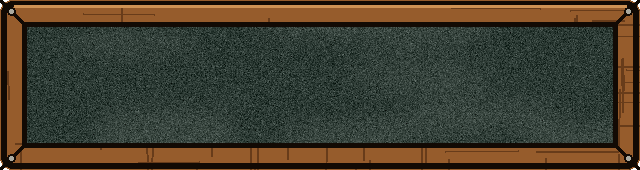
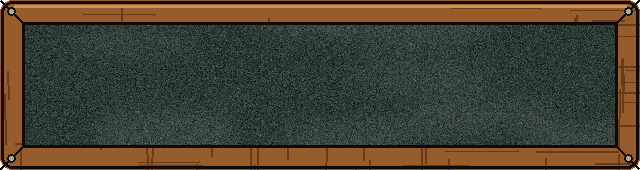
Brewery: chalk board beside its sign, second board below for what does not fit
Claude-Session: https://claude.ai/code/session_01DBvdhLwyoq4buUFjYxfbJv

Changed region(s): [[0.0, 0.0, 1.0, 1.0]]

diff --git a/tools/art/draw_chalk_board.py b/tools/art/draw_chalk_board.py
@@ -1,4 +1,5 @@
-"""THE BREWERY'S CHALK BOARD (24 Oct 2026, Anthony picked look B:
+"""THE BREWERY'S CHALK BOARD (24 Oct 2026, Anthony picked look B; ink edges
+thinned the same day, "so large and intense make it smaller":
 "B please ... but not on a wooden plank ... on a board").
 
 Draws, for free, the pieces of the stock bar at the top of the Brewery:
@@ -49,8 +50,8 @@ def board(w=640, h=170, frame=22):
     # mitred corners
     for (x0, y0, x1, y1) in [(0, 0, frame, frame), (w - 1, 0, w - 1 - frame, frame),
                              (0, h - 1, frame, h - 1 - frame), (w - 1, h - 1, w - 1 - frame, h - 1 - frame)]:
-        d.line([(x0, y0), (x1, y1)], fill=INK, width=3)
-    d.rounded_rectangle((1, 1, w - 2, h - 2), 12, outline=INK, width=6)
+        d.line([(x0, y0), (x1, y1)], fill=INK, width=2)
+    d.rounded_rectangle((1, 1, w - 2, h - 2), 12, outline=INK, width=3)
     # highlight along the top of the frame
     d.line([(14, 6), (w - 14, 6)], fill=(206, 146, 84, 255), width=3)
     # the slate
@@ -66,7 +67,7 @@ def board(w=640, h=170, frame=22):
     slate.alpha_composite(smudge.filter(ImageFilter.GaussianBlur(12)))
     img.alpha_composite(slate, (sx0, sy0))
     d = ImageDraw.Draw(img)
-    d.rectangle((sx0, sy0, sx1, sy1), outline=INK, width=5)
+    d.rectangle((sx0, sy0, sx1, sy1), outline=INK, width=3)
     # a few nails in the frame corners
     for (x, y) in [(11, 11), (w - 12, 11), (11, h - 12), (w - 12, h - 12)]:
         d.ellipse((x - 4, y - 4, x + 4, y + 4), fill=(170, 170, 160, 255), outline=INK, width=2)

diff --git a/guides/DESIGNER_MANUAL.md b/guides/DESIGNER_MANUAL.md
@@ -4796,7 +4796,7 @@ and then its `Door Sound` (`door_open`, a wooden door creaking open)
 name off the bottom middle of its picture, e.g. the Club House's, so the
 Trophy Room hut in front of it keeps its own name.
 
-**The village buttons (23 Oct 2026)**: the village picture (assets/base/village.png) now has the drawn Pub right of the brewery. Like the brewery church, it is a button: Buildings.csv `Village Art` = `pub_inn` (assets/base/map/pub_inn.png = only its pixels, pub_inn_hover.png = lit up with a gold edge). The pitch is a button too: the new row `play_field` ("Play a match", Action `play:friendly`, Village Art `village_field`). Clicking the grass does what the Play a match flag did (the Match Maker), and while that row is on the base the flag is not on the top row. The pieces are made by /mnt/project-files/art_tool/base/village_buttons/make_pieces.py. The Dorms is drawn in too (the white block far left, behind the tree, chapel and houses): Village Art `dorms_block`, lit up on hover the same way. The Brewer visitor is off the base for now: his Visitors.csv `Requires` is `flag:brewer_on_base`; put `unlocked:Brewery` back to bring him back. Later the same day the whole picture was redrawn (r172): the new wooden Club House chalet in the middle (Village Art `clubhouse_chalet`), the low houses and little chapel under the Dorms and Club House all together as the Training Ground (`training_houses`), and the wooden Trophy hut with the gold cup in the field corner between the stone wall and the fence (`trophy_hut`). Every building on the base now lights up yellow on hover. The Dorms and Club House name tags are lifted onto their own building with `Name Offset` so the houses in front do not hide them. Pieces: /mnt/project-files/art_tool/base/village_buttons/make_masks_r172.py, then make_pieces_r172.py. The base's name now hangs on the tavern sign like the other screens (data/MenuHeader.csv; Language.csv `the_base`, `tutorial_base`). So does the Brewery's when it opens as its own screen, as in the Tutorial (24 Oct 2026, Anthony; Language.csv `brewery_title`): the RESOURCES and BREWERY MATERIALS windows sit under the sign. In a building window the frame's own sign says it. Check: tools/building_signs_shot.gd photographs every building window and the Brewery on its own. THE BREWERY CHALK BOARD (24 Oct 2026, Anthony picked look B, "on a board", not on a plank): the stock along the top of the Brewery is chalked on one slate in its slim wooden board frame (Theme.csv `brewery_board`, picture assets/brewery/ui/chalkboard.png). Wheat, Water and the other raw things and the made things (Malt to Bottle) are yellow chalk numbers; tools and element cards (a Kept row) are chalk tick boxes, ticked when you own one (chalk_box.png, chalk_tick.png). A chalk line splits what you bring in from what the Brewery makes. All three pictures are drawn for free by tools/art/draw_chalk_board.py; the chalk grain on the words is src/ui/chalk_text.gdshader. Tuning.csv: `brewery_bar_style` (chalk, or old for the two dark windows), `brewery_board_height`, `brewery_board_cell` (width of each thing), `brewery_board_window_scale` (smaller in a building window), `brewery_board_drop_word` (Element: Fire Element is chalked Fire), `brewery_chalk_grain`. THE TUTORIAL NOW STARTS ON THE BASE (23 Oct 2026, Anthony): Tuning.csv `tutorial_first_scene` = `tut-base-welcome`, one Dialogue.csv line over the village picture (StoryArt.csv background `village`): the Head Coach says "Ah Coach! You are here, glad you could make it", and its Next `prologue/open` carries on into Pub Dialogue 1 and the tutorial match as before. Put `prologue` back in `tutorial_first_scene` to open in the pub again. THE NEW INTRODUCTION (23 Oct, Anthony): the welcome is now four lines ("Welcome to Sturmball!" ... "let us get a drink at the Pub"), and it ends ON THE BASE itself, in the tutorial's own save: everything is greyed out except the Pub, which glows (Guide.csv row `tut_intro_pub`, Highlight `Pub`, Only `true`; the tutorial save is given the Pub by Tuning.csv `tutorial_start_effects`). Press the Pub and Tuning.csv `tutorial_pub_scene` plays: Dialogue.csv `tut-pub-arrive` ("Ah, nothing beats a nice cold beer!", "Ah Koch! My prodigy"), whose last line's Next `prologue/put_down` carries on into the pub scene as before, then the tutorial match. `tutorial_pub_building` names which Buildings.csv row is the Pub. Blank `tutorial_pub_scene` = no base walk: the welcome goes straight on to the match. A Guide.csv row with Only `true` now works on the base too: every other button is greyed and cannot be pressed (the End tutorial button stays), and a drawn building glows instead of getting a ring. After "Ah Koch! My prodigy" Koch slides in from the right and the Head Coach moves to the left, facing the middle (Anthony, 23 Oct): Dialogue.csv has a new column, `Joins`: who steps on stage as a line shows WITHOUT speaking, written Portrait:Side:Mood (here `koch:right:drunk` on prologue/put_down), several separated by ;. Check: tools/tutorial_check.gd. A Joins entry for someone already on stage just changes their face (24 Oct, Anthony: on prologue/finish_up, "Fine! But finish up...", `koch:right:happy` makes Koch happy again; check: tools/koch_happy_shot.gd). Later the same day (Anthony): every sign's dark edge is half as thick (MenuHeader.csv `backing` Size 30, pictures remade by art_tool/menu/header_aura.py), and THE DRAWN HEAD COACH is in: the story faces in assets/story/portraits/coach_*.png are now his drawn happy, sad, drunk and mad fronts and his happy side (cut out by art_tool/characters/coach/game/cut_portraits.py). His side faces (happy, sad, drunk, mad) are drawn half-turned, semi front/side like the old pixel ones (r173-r174, Anthony's pick). The pub in the story is empty now (Anthony, 23 Oct): StoryArt.csv no longer stacks the regulars layer (assets/story/backgrounds/bar_regulars.png, still there) on the bar room; add the row `bar,background,,,,res://assets/story/backgrounds/bar_regulars.png` under the bar room to bring them back. The room itself is redrawn in our comic style (assets/story/backgrounds/bar_room_drawn.png, r175), with three beer garden table sets in three different woods in the middle of the floor (r176); the old pixel room is still bar_room.png. His cut-outs have the white between his hair strands and the pale rim round his outline taken out, and each picture is padded at the top to the shape of a person's spot on the story screen, so he stands on its bottom edge just behind the text box instead of floating above it (same script). All eight faces were then redrawn a little zoomed out (r177-r178, Anthony: "Redraw all 7"), so his shoulders, arms and hands are inside the picture and his sides no longer end in a straight cut; each is cut off through the blue-white diamonds, where the text box hides the edge. The faces before that are kept in art_tool/characters/coach/before_r178/. THE DRAWN KOCH is in too (23 Oct, Anthony: "Replace the old koch with the new one please", then "as clean and same size as the head coach"): all eight of his faces (happy, sad, drunk, mad, each front and half-turned side) are redrawn clean like the Head Coach (r179-r180). Both men's faces are now cut and sized by ONE script, art_tool/characters/story_faces.py: each picture is cut 800 px below the top of his head and shrunk to the same width, so both men stand at the same size in every mood. Koch's plain face is his happy one. ONE SET OF COLOURS (23 Oct, Anthony: the colours must not change from scene to scene): the same script shifts every face's skin, hair and clothes to that man's happy front colours, and the person listening in a conversation is no longer greyed out (Tuning.csv `story_listener_dim` 1; 0.55 brings back the grey). His mad faces now have normal skin instead of a red face (r181, Anthony's pick). His silhouette and Bergmännlein faces (the transformation) are unchanged. Check: tools/village_buttons_shot.gd. THE DRAWN HANNA is in as well (23 Oct, Anthony: "Need new Hanna in our art work in the game please"): assets/story/portraits/hanna_front.png and hanna_side.png are her drawn happy face, front and half-turned (art_tool/characters/hanna/, r22), cut out of the white page and shrunk so her head is the same size as the Head Coach's when they stand side by side in the brewery talk (art_tool/characters/hanna/game/cut_portraits.py; its second number is her size, 0.65). Her drawings are close-ups, so her sleeves ran off the sides in a straight cut that read as a white box round her on the drawn brewery hall; they now fade out over the outer 60 px of each side (FADE in the same script). HER ARMS ARE IN (24 Oct, Anthony: "we need to see that she is buff af"): her front face (the one every brewery line uses) is now her drawn thumbs-up pose, both arms whole, cut below her hand on her hip (POSES in the same script). That picture is wider, so StoryArt.csv Scale 1.25 draws it bigger again; her thumb then reaches the right edge of the screen. Her half-turned side face is still the close-up. Check: tools/hanna_shot.gd photographs the brewery lines.
+**The village buttons (23 Oct 2026)**: the village picture (assets/base/village.png) now has the drawn Pub right of the brewery. Like the brewery church, it is a button: Buildings.csv `Village Art` = `pub_inn` (assets/base/map/pub_inn.png = only its pixels, pub_inn_hover.png = lit up with a gold edge). The pitch is a button too: the new row `play_field` ("Play a match", Action `play:friendly`, Village Art `village_field`). Clicking the grass does what the Play a match flag did (the Match Maker), and while that row is on the base the flag is not on the top row. The pieces are made by /mnt/project-files/art_tool/base/village_buttons/make_pieces.py. The Dorms is drawn in too (the white block far left, behind the tree, chapel and houses): Village Art `dorms_block`, lit up on hover the same way. The Brewer visitor is off the base for now: his Visitors.csv `Requires` is `flag:brewer_on_base`; put `unlocked:Brewery` back to bring him back. Later the same day the whole picture was redrawn (r172): the new wooden Club House chalet in the middle (Village Art `clubhouse_chalet`), the low houses and little chapel under the Dorms and Club House all together as the Training Ground (`training_houses`), and the wooden Trophy hut with the gold cup in the field corner between the stone wall and the fence (`trophy_hut`). Every building on the base now lights up yellow on hover. The Dorms and Club House name tags are lifted onto their own building with `Name Offset` so the houses in front do not hide them. Pieces: /mnt/project-files/art_tool/base/village_buttons/make_masks_r172.py, then make_pieces_r172.py. The base's name now hangs on the tavern sign like the other screens (data/MenuHeader.csv; Language.csv `the_base`, `tutorial_base`). So does the Brewery's when it opens as its own screen, as in the Tutorial (24 Oct 2026, Anthony; Language.csv `brewery_title`): the RESOURCES and BREWERY MATERIALS windows sit under the sign. In a building window the frame's own sign says it. Check: tools/building_signs_shot.gd photographs every building window and the Brewery on its own. THE BREWERY CHALK BOARD (24 Oct 2026, Anthony picked look B, "on a board", not on a plank): the stock along the top of the Brewery is chalked on one slate in its slim wooden board frame (Theme.csv `brewery_board`, picture assets/brewery/ui/chalkboard.png). Wheat, Water and the other raw things and the made things (Malt to Bottle) are yellow chalk numbers; tools and element cards (a Kept row) are chalk tick boxes, ticked when you own one (chalk_box.png, chalk_tick.png). A chalk line splits what you bring in from what the Brewery makes. All three pictures are drawn for free by tools/art/draw_chalk_board.py; the chalk grain on the words is src/ui/chalk_text.gdshader. Tuning.csv: `brewery_bar_style` (chalk, or old for the two dark windows), `brewery_board_height`, `brewery_board_cell` (width of each thing), `brewery_board_window_scale` (smaller in a building window), `brewery_board_drop_word` (Element: Fire Element is chalked Fire), `brewery_chalk_grain`. Later the same day (Anthony: "Have it next to the brewery signs ... whatever doesn't fit gets its own board and is placed below the other one"): the board hangs BESIDE THE BREWERY sign (`brewery_board_top`, `brewery_board_gap`), and when the made things (Malt to Bottle) do not fit on it too they get a second board of their own underneath, lined up with the first. The board's black ink edges are thinner, and the dark edge round THE BREWERY sign is smaller and lighter than on the other screens (`brewery_sign_aura_size`, `brewery_sign_aura_strength`). THE TUTORIAL NOW STARTS ON THE BASE (23 Oct 2026, Anthony): Tuning.csv `tutorial_first_scene` = `tut-base-welcome`, one Dialogue.csv line over the village picture (StoryArt.csv background `village`): the Head Coach says "Ah Coach! You are here, glad you could make it", and its Next `prologue/open` carries on into Pub Dialogue 1 and the tutorial match as before. Put `prologue` back in `tutorial_first_scene` to open in the pub again. THE NEW INTRODUCTION (23 Oct, Anthony): the welcome is now four lines ("Welcome to Sturmball!" ... "let us get a drink at the Pub"), and it ends ON THE BASE itself, in the tutorial's own save: everything is greyed out except the Pub, which glows (Guide.csv row `tut_intro_pub`, Highlight `Pub`, Only `true`; the tutorial save is given the Pub by Tuning.csv `tutorial_start_effects`). Press the Pub and Tuning.csv `tutorial_pub_scene` plays: Dialogue.csv `tut-pub-arrive` ("Ah, nothing beats a nice cold beer!", "Ah Koch! My prodigy"), whose last line's Next `prologue/put_down` carries on into the pub scene as before, then the tutorial match. `tutorial_pub_building` names which Buildings.csv row is the Pub. Blank `tutorial_pub_scene` = no base walk: the welcome goes straight on to the match. A Guide.csv row with Only `true` now works on the base too: every other button is greyed and cannot be pressed (the End tutorial button stays), and a drawn building glows instead of getting a ring. After "Ah Koch! My prodigy" Koch slides in from the right and the Head Coach moves to the left, facing the middle (Anthony, 23 Oct): Dialogue.csv has a new column, `Joins`: who steps on stage as a line shows WITHOUT speaking, written Portrait:Side:Mood (here `koch:right:drunk` on prologue/put_down), several separated by ;. Check: tools/tutorial_check.gd. A Joins entry for someone already on stage just changes their face (24 Oct, Anthony: on prologue/finish_up, "Fine! But finish up...", `koch:right:happy` makes Koch happy again; check: tools/koch_happy_shot.gd). Later the same day (Anthony): every sign's dark edge is half as thick (MenuHeader.csv `backing` Size 30, pictures remade by art_tool/menu/header_aura.py), and THE DRAWN HEAD COACH is in: the story faces in assets/story/portraits/coach_*.png are now his drawn happy, sad, drunk and mad fronts and his happy side (cut out by art_tool/characters/coach/game/cut_portraits.py). His side faces (happy, sad, drunk, mad) are drawn half-turned, semi front/side like the old pixel ones (r173-r174, Anthony's pick). The pub in the story is empty now (Anthony, 23 Oct): StoryArt.csv no longer stacks the regulars layer (assets/story/backgrounds/bar_regulars.png, still there) on the bar room; add the row `bar,background,,,,res://assets/story/backgrounds/bar_regulars.png` under the bar room to bring them back. The room itself is redrawn in our comic style (assets/story/backgrounds/bar_room_drawn.png, r175), with three beer garden table sets in three different woods in the middle of the floor (r176); the old pixel room is still bar_room.png. His cut-outs have the white between his hair strands and the pale rim round his outline taken out, and each picture is padded at the top to the shape of a person's spot on the story screen, so he stands on its bottom edge just behind the text box instead of floating above it (same script). All eight faces were then redrawn a little zoomed out (r177-r178, Anthony: "Redraw all 7"), so his shoulders, arms and hands are inside the picture and his sides no longer end in a straight cut; each is cut off through the blue-white diamonds, where the text box hides the edge. The faces before that are kept in art_tool/characters/coach/before_r178/. THE DRAWN KOCH is in too (23 Oct, Anthony: "Replace the old koch with the new one please", then "as clean and same size as the head coach"): all eight of his faces (happy, sad, drunk, mad, each front and half-turned side) are redrawn clean like the Head Coach (r179-r180). Both men's faces are now cut and sized by ONE script, art_tool/characters/story_faces.py: each picture is cut 800 px below the top of his head and shrunk to the same width, so both men stand at the same size in every mood. Koch's plain face is his happy one. ONE SET OF COLOURS (23 Oct, Anthony: the colours must not change from scene to scene): the same script shifts every face's skin, hair and clothes to that man's happy front colours, and the person listening in a conversation is no longer greyed out (Tuning.csv `story_listener_dim` 1; 0.55 brings back the grey). His mad faces now have normal skin instead of a red face (r181, Anthony's pick). His silhouette and Bergmännlein faces (the transformation) are unchanged. Check: tools/village_buttons_shot.gd. THE DRAWN HANNA is in as well (23 Oct, Anthony: "Need new Hanna in our art work in the game please"): assets/story/portraits/hanna_front.png and hanna_side.png are her drawn happy face, front and half-turned (art_tool/characters/hanna/, r22), cut out of the white page and shrunk so her head is the same size as the Head Coach's when they stand side by side in the brewery talk (art_tool/characters/hanna/game/cut_portraits.py; its second number is her size, 0.65). Her drawings are close-ups, so her sleeves ran off the sides in a straight cut that read as a white box round her on the drawn brewery hall; they now fade out over the outer 60 px of each side (FADE in the same script). HER ARMS ARE IN (24 Oct, Anthony: "we need to see that she is buff af"): her front face (the one every brewery line uses) is now her drawn thumbs-up pose, both arms whole, cut below her hand on her hip (POSES in the same script). That picture is wider, so StoryArt.csv Scale 1.25 draws it bigger again; her thumb then reaches the right edge of the screen. Her half-turned side face is still the close-up. Check: tools/hanna_shot.gd photographs the brewery lines.
 
 **On Base (Buildings.csv, 23 Oct 2026)**: write `no` and that building is not drawn on the base, but it still exists (its key, window, unlocks and Club House sale all still work). Blank = drawn. The Traveling Tavern is `no` for now (Anthony's ask); empty the cell to bring the wagon back.
 
